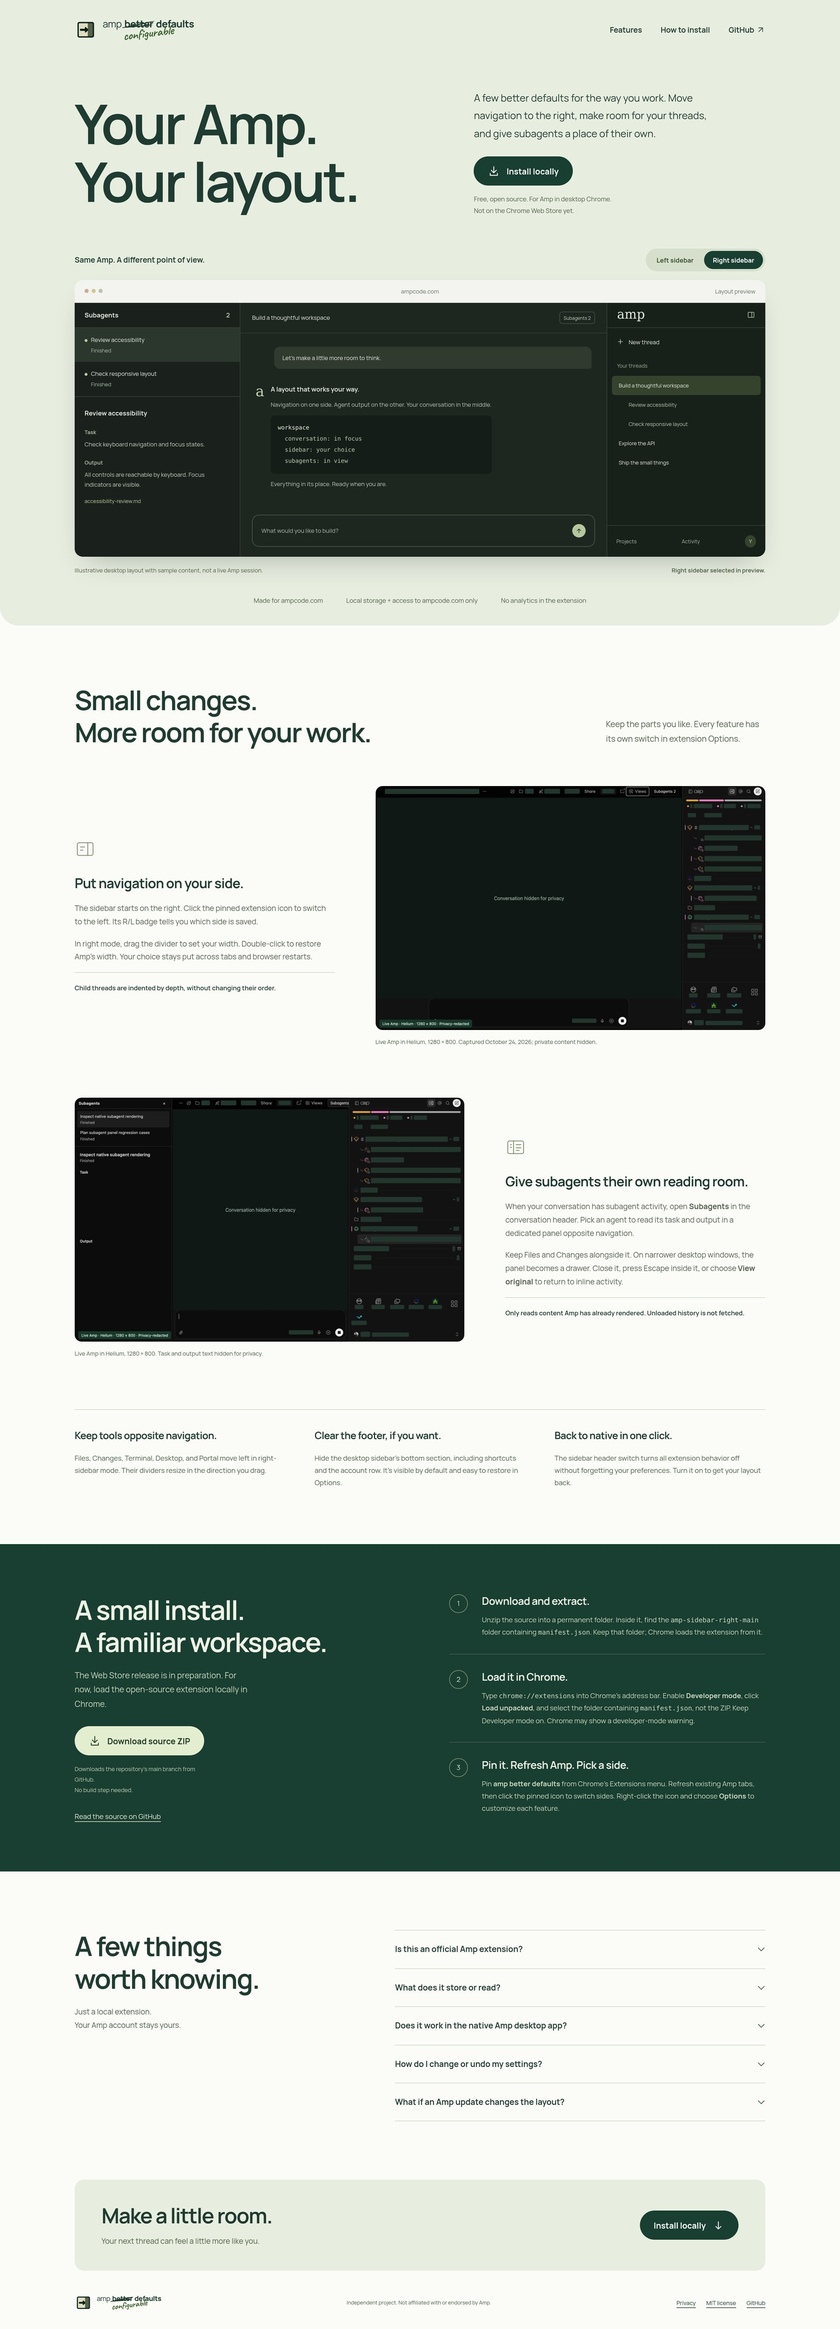
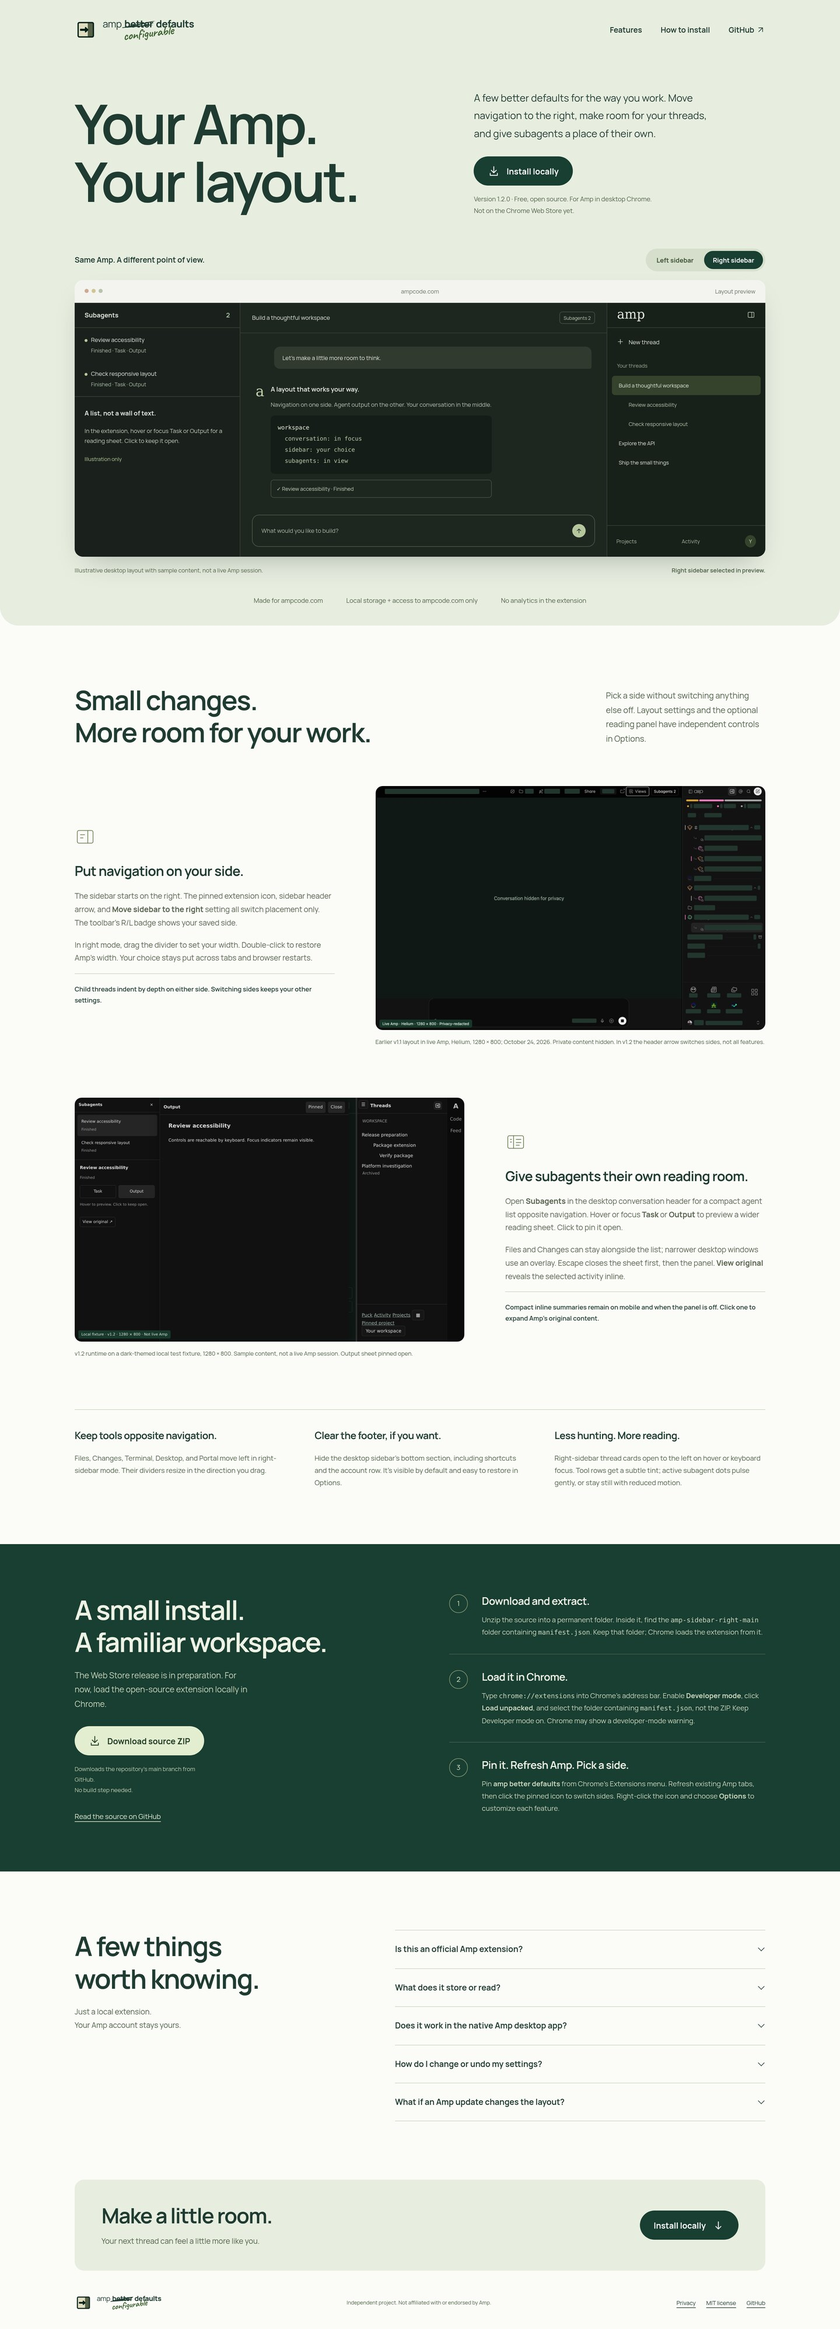
docs: align landing page with v1.2 extension behavior
Update independent settings, inline summaries, reading-sheet guidance, and manual installation updates. Match the reading-sheet fixture to the dark product capture and label its provenance.

Amp-Thread-ID: https://ampcode.com/threads/T-01a16ef6-c2d4-753c-8541-85b43471f9f6

diff --git a/docs/index.html b/docs/index.html
@@ -35,7 +35,7 @@
           <div class="hero-copy">
             <p>A few better defaults for the way you work. Move navigation to the right, make room for your threads, and give subagents a place of their own.</p>
             <a class="button primary" href="#install"><svg viewBox="0 0 24 24" aria-hidden="true"><path d="M12 3v12m-5-5 5 5 5-5M5 16v4h14v-4"/></svg>Install locally</a>
-            <p class="install-note">Free, open source. For Amp in desktop Chrome.<br>Not on the Chrome Web Store yet.</p>
+            <p class="install-note">Version 1.2.0 · Free, open source. For Amp in desktop Chrome.<br>Not on the Chrome Web Store yet.</p>
           </div>
         </div>
         <div class="demo-heading">
@@ -50,13 +50,13 @@
           <div class="workspace-body">
             <aside class="demo-agents" aria-label="Illustrative subagent panel">
               <div class="pane-title">Subagents <span>2</span></div>
-              <div class="agent selected"><span class="status-dot"></span>Review accessibility<small>Finished</small></div>
-              <div class="agent"><span class="status-dot"></span>Check responsive layout<small>Finished</small></div>
-              <div class="agent-result"><strong>Review accessibility</strong><span class="mini-label">Task</span><p>Check keyboard navigation and focus states.</p><span class="mini-label">Output</span><p>All controls are reachable by keyboard. Focus indicators are visible.</p><span class="result-file">accessibility-review.md</span></div>
+              <div class="agent"><span class="status-dot"></span>Review accessibility<small>Finished · Task · Output</small></div>
+              <div class="agent"><span class="status-dot"></span>Check responsive layout<small>Finished · Task · Output</small></div>
+              <div class="agent-guide"><strong>A list, not a wall of text.</strong><p>In the extension, hover or focus Task or Output for a reading sheet. Click to keep it open.</p><span>Illustration only</span></div>
             </aside>
             <div class="demo-conversation">
               <div class="conversation-top">Build a thoughtful workspace <span>Subagents 2</span></div>
-              <div class="conversation-content"><div class="sample-prompt">Let's make a little more room to think.</div><div class="sample-response"><span class="amp-mark" aria-hidden="true">a</span><div><strong>A layout that works your way.</strong><p>Navigation on one side. Agent output on the other. Your conversation in the middle.</p><div class="sample-code"><span>workspace</span><br>&nbsp;&nbsp;conversation: in focus<br>&nbsp;&nbsp;sidebar: your choice<br>&nbsp;&nbsp;subagents: in view</div><p>Everything in its place. Ready when you are.</p></div></div></div>
+              <div class="conversation-content"><div class="sample-prompt">Let's make a little more room to think.</div><div class="sample-response"><span class="amp-mark" aria-hidden="true">a</span><div><strong>A layout that works your way.</strong><p>Navigation on one side. Agent output on the other. Your conversation in the middle.</p><div class="sample-code"><span>workspace</span><br>&nbsp;&nbsp;conversation: in focus<br>&nbsp;&nbsp;sidebar: your choice<br>&nbsp;&nbsp;subagents: in view</div><div class="inline-summary">✓ Review accessibility · Finished</div></div></div></div>
               <div class="demo-composer"><span>What would you like to build?</span><svg viewBox="0 0 24 24" aria-hidden="true"><path d="m7 12 5-5 5 5M12 7v11"/></svg></div>
             </div>
             <aside class="demo-navigation" aria-label="Illustrative navigation sidebar">
@@ -77,19 +77,19 @@
       </section>
   </div>
       <section id="features" class="features wrap" aria-labelledby="features-title">
-        <div class="section-intro"><h2 id="features-title">Small changes.<br>More room for your work.</h2><p>Keep the parts you like. Every feature has its own switch in extension Options.</p></div>
+        <div class="section-intro"><h2 id="features-title">Small changes.<br>More room for your work.</h2><p>Pick a side without switching anything else off. Layout settings and the optional reading panel have independent controls in Options.</p></div>
         <div class="feature-story">
-          <div class="feature-copy"><svg class="feature-icon" viewBox="0 0 40 40" aria-hidden="true"><rect x="5" y="8" width="30" height="24" rx="3"/><path d="M25 8v24M11 16h8m-8 6h5"/></svg><h3>Put navigation on your side.</h3><p>The sidebar starts on the right. Click the pinned extension icon to switch to the left. Its R/L badge tells you which side is saved.</p><p>In right mode, drag the divider to set your width. Double-click to restore Amp's width. Your choice stays put across tabs and browser restarts.</p><div class="feature-detail">Child threads are indented by depth, without changing their order.</div></div>
-          <figure><img src="assets/right-sidebar.png" alt="Privacy-redacted live Amp capture with navigation on the right and child threads indented beneath their parent." width="1280" height="800" loading="lazy"><figcaption>Live Amp in Helium, 1280 × 800. Captured October 24, 2026; private content hidden.</figcaption></figure>
+          <div class="feature-copy"><svg class="feature-icon" viewBox="0 0 40 40" aria-hidden="true"><rect x="5" y="8" width="30" height="24" rx="3"/><path d="M25 8v24M11 16h8m-8 6h5"/></svg><h3>Put navigation on your side.</h3><p>The sidebar starts on the right. The pinned extension icon, sidebar header arrow, and <strong>Move sidebar to the right</strong> setting all switch placement only. The toolbar's R/L badge shows your saved side.</p><p>In right mode, drag the divider to set your width. Double-click to restore Amp's width. Your choice stays put across tabs and browser restarts.</p><div class="feature-detail">Child threads indent by depth on either side. Switching sides keeps your other settings.</div></div>
+          <figure><img src="assets/right-sidebar.png" alt="Privacy-redacted live Amp capture of the earlier 1.1 layout, with navigation on the right and child threads indented beneath their parent." width="1280" height="800" loading="lazy"><figcaption>Earlier v1.1 layout in live Amp, Helium, 1280 × 800; October 24, 2026. Private content hidden. In v1.2 the header arrow switches sides, not all features.</figcaption></figure>
         </div>
         <div class="feature-story reverse">
-          <div class="feature-copy"><svg class="feature-icon" viewBox="0 0 40 40" aria-hidden="true"><rect x="5" y="8" width="30" height="24" rx="3"/><path d="M16 8v24m-6-17h2m-2 5h2m9-5h9m-9 6h9m-9 5h6"/></svg><h3>Give subagents their own reading room.</h3><p>When your conversation has subagent activity, open <strong>Subagents</strong> in the conversation header. Pick an agent to read its task and output in a dedicated panel opposite navigation.</p><p>Keep Files and Changes alongside it. On narrower desktop windows, the panel becomes a drawer. Close it, press Escape inside it, or choose <strong>View original</strong> to return to inline activity.</p><div class="feature-detail">Only reads content Amp has already rendered. Unloaded history is not fetched.</div></div>
-          <figure><img src="assets/right-subagents.png" alt="Privacy-redacted live Amp capture with a selected subagent's task and output panel on the left, conversation in the center, and navigation on the right." width="1280" height="800" loading="lazy"><figcaption>Live Amp in Helium, 1280 × 800. Task and output text hidden for privacy.</figcaption></figure>
+          <div class="feature-copy"><svg class="feature-icon" viewBox="0 0 40 40" aria-hidden="true"><rect x="5" y="8" width="30" height="24" rx="3"/><path d="M16 8v24m-6-17h2m-2 5h2m9-5h9m-9 6h9m-9 5h6"/></svg><h3>Give subagents their own reading room.</h3><p>Open <strong>Subagents</strong> in the desktop conversation header for a compact agent list opposite navigation. Hover or focus <strong>Task</strong> or <strong>Output</strong> to preview a wider reading sheet. Click to pin it open.</p><p>Files and Changes can stay alongside the list; narrower desktop windows use an overlay. Escape closes the sheet first, then the panel. <strong>View original</strong> reveals the selected activity inline.</p><div class="feature-detail">Compact inline summaries remain on mobile and when the panel is off. Click one to expand Amp's original content.</div></div>
+          <figure><img src="assets/subagent-sheets.png" alt="Dark-themed local test fixture of version 1.2 with a compact subagent list, an open Output reading sheet, and right-side navigation." width="1280" height="800" loading="lazy"><figcaption>v1.2 runtime on a dark-themed local test fixture, 1280 × 800. Sample content, not a live Amp session. Output sheet pinned open.</figcaption></figure>
         </div>
         <div class="more-features">
           <article><h3>Keep tools opposite navigation.</h3><p>Files, Changes, Terminal, Desktop, and Portal move left in right-sidebar mode. Their dividers resize in the direction you drag.</p></article>
           <article><h3>Clear the footer, if you want.</h3><p>Hide the desktop sidebar's bottom section, including shortcuts and the account row. It's visible by default and easy to restore in Options.</p></article>
-          <article><h3>Back to native in one click.</h3><p>The sidebar header switch turns all extension behavior off without forgetting your preferences. Turn it on to get your layout back.</p></article>
+          <article><h3>Less hunting. More reading.</h3><p>Right-sidebar thread cards open to the left on hover or keyboard focus. Tool rows get a subtle tint; active subagent dots pulse gently, or stay still with reduced motion.</p></article>
         </div>
       </section>
       <section id="install" class="installation" aria-labelledby="install-title">
@@ -106,10 +106,10 @@
         <div><h2 id="questions-title">A few things<br>worth knowing.</h2><p>Just a local extension.<br>Your Amp account stays yours.</p></div>
         <div class="faq-list">
           <details><summary>Is this an official Amp extension?</summary><p>No. This is an independent, MIT-licensed project. It is not affiliated with or endorsed by Amp. The Amp name identifies the service it works with.</p></details>
-          <details><summary>What does it store or read?</summary><p>The extension needs local storage and access to ampcode.com only. Chrome may describe that access as reading and changing site data. Only nine layout and feature preferences are saved in your local Chrome profile, not synced between devices. The subagent panel expands Amp's native subagent disclosures as needed and reads rendered agent titles, statuses, tasks, results, and errors into memory for the current thread. It does not save or transmit that content. The extension makes no network requests and has no analytics.</p><a href="https://github.com/Tyru5/amp-sidebar-right/blob/main/PRIVACY.md">Read the full privacy policy</a></details>
-          <details><summary>Does it work in the native Amp desktop app?</summary><p>No. Use Amp in desktop Chrome or a Chrome-installed PWA. Chrome extensions cannot modify the separate native Amp app. Below 768px, Amp's mobile layout is unchanged.</p></details>
-          <details><summary>How do I change or undo my settings?</summary><p>Right-click the extension's toolbar icon and choose Options. Each feature has a checkbox. Turn off Enable extension behavior to restore the native layout immediately while keeping your preferences. After disabling or removing the extension in Chrome, refresh open Amp tabs to clear its existing changes.</p></details>
-          <details><summary>What if an Amp update changes the layout?</summary><p>Amp's page structure isn't a public API. A site update may require an extension update. Turn off extension behavior in Options if something looks wrong, and report the issue on GitHub. Local installs need to be updated manually by replacing the source files and clicking Reload in Chrome's extensions page.</p><a href="https://github.com/Tyru5/amp-sidebar-right/issues">Report a compatibility issue</a></details>
+          <details><summary>What does it store or read?</summary><p>The extension needs local storage and access to ampcode.com only. Chrome may describe that access as reading and changing site data. Eight active layout and feature preferences are saved in your local Chrome profile, not synced between devices. Inline summaries and the reading panel use rendered subagent titles, statuses, tasks, results, and errors in memory for the current thread, expanding Amp's native disclosures as needed. That view is discarded on navigation or reload; subagent content is never saved or transmitted. No additional history is fetched. The extension makes no network requests and has no analytics.</p><a href="https://github.com/Tyru5/amp-sidebar-right/blob/main/PRIVACY.md">Read the full privacy policy</a></details>
+          <details><summary>Does it work in the native Amp desktop app?</summary><p>No. Use Amp in desktop Chrome or a Chrome-installed PWA. Chrome extensions cannot modify the separate native Amp app, and Chrome on mobile does not support extensions. Below 768px in a supported browser, navigation stays native and subagents use compact inline summaries rather than the desktop panel.</p></details>
+          <details><summary>How do I change or undo my settings?</summary><p>Right-click the extension's toolbar icon and choose Options. Layout settings and the desktop reading panel have separate checkboxes. Switching sides does not disable other features, and turning off the panel keeps inline summaries. There is no master on/off switch in v1.2. To remove all extension changes, disable or remove the extension in Chrome, then refresh open Amp tabs.</p></details>
+          <details><summary>What if an Amp update changes the layout?</summary><p>Amp's page structure isn't a public API. A site update may require an extension update. Disable the extension in Chrome and refresh Amp if something looks wrong, and report the issue on GitHub. Local installs do not auto-update: download and extract the new source ZIP, replacing the files in the existing folder Chrome loads. For a cloned install, run <code>git pull</code> in that folder instead. Click <strong>Reload</strong> in Chrome's extensions page, re-enable the extension if you disabled it, and refresh Amp. Keep the installed folder in place; deleting or moving it breaks the install.</p><a href="https://github.com/Tyru5/amp-sidebar-right/issues">Report a compatibility issue</a></details>
         </div>
       </section>
       <section class="closing wrap" aria-labelledby="closing-title"><div><h2 id="closing-title">Make a little room.</h2><p>Your next thread can feel a little more like you.</p></div><a class="button primary" href="#install">Install locally<svg viewBox="0 0 24 24" aria-hidden="true"><path d="M12 5v14m-5-5 5 5 5-5"/></svg></a></section>

diff --git a/docs/landing.css b/docs/landing.css
@@ -59,14 +59,12 @@ h1 { font-size: clamp(60px, 6.8vw, 94px); line-height: 1.06; letter-spacing: -.0
 .pane-title { height: 43px; display: flex; justify-content: space-between; align-items: center; gap: 10px; padding-inline: 17px; border-bottom: 1px solid #384136; font-size: 11px; font-weight: 700; }
 .pane-title > span:not(.demo-wordmark) { color: #a9bca2; }
 .agent { padding: 13px 12px 13px 17px; font-size: 10px; line-height: 1.5; }
-.agent.selected { background: #2b362c; }
 .status-dot { display: inline-block; width: 5px; height: 5px; border-radius: 50%; background: #b8c89a; margin-right: 6px; }
 .agent small { display: block; font-size: 9px; color: #afbdab; padding: 4px 0 0 11px; }
-.agent-result { border-top: 1px solid #384136; padding: 18px 17px; line-height: 1.8; }
-.agent-result strong { font-size: 11px; }
-.mini-label { display: block; margin: 15px 0 4px; font-size: 9px; font-weight: 700; color: #a3b39b; }
-.agent-result p { color: #c2cbbd; font-size: 10px; line-height: 1.7; margin-bottom: 0; }
-.result-file { color: #b9c99c; font-size: 9px; display: block; margin-top: 12px; }
+.agent-guide { border-top: 1px solid #384136; padding: 18px 17px; line-height: 1.8; }
+.agent-guide strong { font-size: 11px; }
+.agent-guide p { color: #c2cbbd; font-size: 10px; line-height: 1.7; margin: 12px 0; }
+.agent-guide > span { color: #b9c99c; font-size: 9px; }
 .demo-conversation { order: 1; min-width: 0; display: flex; flex-direction: column; background: #1e2620; }
 .conversation-top { padding: 15px 20px; border-bottom: 1px solid #354031; font-size: 10px; display: flex; align-items: center; justify-content: space-between; gap: 10px; white-space: nowrap; }
 .conversation-top span { font-size: 8px; color: #c2d0b7; border: 1px solid #46503e; border-radius: 5px; padding: 4px 6px; }
@@ -78,6 +76,7 @@ h1 { font-size: clamp(60px, 6.8vw, 94px); line-height: 1.06; letter-spacing: -.0
 .amp-mark { font-family: Georgia, serif; font-style: italic; font-size: 25px; color: #c2cfaa; line-height: 1; }
 .sample-code { font: 10px/1.9 ui-monospace, monospace; padding: 12px; background: #151d18; border-radius: 7px; color: #b5c5a7; }
 .sample-code span { color: #e3e9d6; }
+.inline-summary { margin-top: 10px; padding: 7px 9px; border: 1px solid #46503e; border-radius: 5px; color: #c2d0b7; font-size: 9px; }
 .demo-composer { margin: auto 20px 17px; border: 1px solid #4d5845; border-radius: 12px; padding: 15px; display: flex; justify-content: space-between; color: #acbba3; font-size: 10px; align-items: center; }
 .demo-composer svg { width: 23px; height: 23px; background: #b5c69f; color: #23351f; border-radius: 50%; padding: 4px; }
 .demo-navigation { order: 2; border-left: 1px solid #384136; background: #18201a; display: flex; flex-direction: column; min-width: 0; }
@@ -93,7 +92,6 @@ h1 { font-size: clamp(60px, 6.8vw, 94px); line-height: 1.06; letter-spacing: -.0
 .profile-dot { border-radius: 50%; background: #34442c; color: #d0dfbe; padding: 4px 7px; }
 .workspace[data-side="left"] .demo-navigation { order: 0; border-left: 0; border-right: 1px solid #384136; }
 .workspace[data-side="left"] .demo-agents { order: 2; border-right: 0; border-left: 1px solid #384136; }
-.workspace[data-side="left"] .demo-thread.child { margin-left: 8px; }
 .demo-caption { display: flex; justify-content: space-between; gap: 16px; color: var(--muted); font-size: 10px; padding-block: 15px 0; line-height: 1.6; }
 #demo-status { font-weight: 650; text-align: right; }
 .opening-footer { display: flex; justify-content: center; gap: 40px; font-size: 11px; color: var(--muted); padding-block: 36px; }
@@ -161,7 +159,7 @@ details a { font-size: 12px; }
   .conversation-content { padding: 20px 16px; }
   .sample-response { margin-top: 18px; }
   .sample-code { font-size: 9px; }
-  .agent-result { padding: 14px 12px; }
+  .agent-guide { padding: 14px 12px; }
   .site-footer { flex-wrap: wrap; }
 }
 @media (max-width: 700px) {
@@ -188,6 +186,7 @@ details a { font-size: 12px; }
   .sample-response p { font-size: 8px; }
   .sample-response p:last-child { display: none; }
   .sample-code { padding: 8px 6px; font-size: 7px; }
+  .inline-summary { font-size: 7px; padding: 5px; margin-top: 7px; }
   .amp-mark { font-size: 20px; }
   .demo-composer { padding: 9px; margin: auto 10px 12px; font-size: 7px; border-radius: 8px; }
   .demo-composer svg { width: 17px; height: 17px; }
@@ -196,8 +195,7 @@ details a { font-size: 12px; }
   .new-thread { padding: 13px 9px; gap: 5px; font-size: 8px; }
   .thread-label { margin: 6px 10px; font-size: 7px; }
   .demo-thread { font-size: 7px; margin-inline: 4px; padding: 8px 6px; }
-  .demo-thread.child { margin-left: 12px; }
-  .workspace[data-side="left"] .demo-thread.child { margin-left: 4px; }
+  .demo-thread.child { margin-left: 4px; }
   .demo-footer { padding: 10px 8px; font-size: 7px; }
   .profile-dot { display: none; }
   .browser-bar { padding: 10px 12px; font-size: 8px; }

diff --git a/docs/assets/README.md b/docs/assets/README.md
@@ -1,11 +1,25 @@
 # Landing page assets
 
 - `icon.png` is copied unchanged from `icons/icon-128.png`.
-- `right-sidebar.png` and `right-subagents.png` are copied unchanged from
-  `store/screenshots/`. They are live, signed-in Helium captures from October
-  24, 2026 at 1280 × 800, with private conversation and task/output text masked
-  before capture. See `store/screenshots/README.md` for provenance and scope.
-  They demonstrate layout, not complete end-to-end coverage of all Amp tools.
+- `right-sidebar.png` is copied unchanged from `store/screenshots/`. It is an
+  earlier v1.1 live, signed-in Helium capture from October 24, 2026 at
+  1280 × 800, with private content masked before capture. Its caption notes
+  that v1.2 changes the header arrow to switch placement instead of all features.
+  See `store/screenshots/README.md` for provenance and scope.
+- `subagent-sheets.png` shows the v1.2 runtime on `tests/fixture.html`, not live
+  Amp. At a 1280 × 800 viewport, clear fixture localStorage, reload, and add
+  two finished agents with `fixtureAgents.add(id, title, task, 'finished', output)`.
+  Open Subagents, focus Output, and press Enter to pin the sheet, then blur focus.
+  Capture-only CSS matches the dark palette of the live image above it: background
+  `#111111`, foreground `#dedede`, muted foreground `#999999`, accent `#252525`,
+  input borders `#303030`, and conversation background `#0f1815`. Apply these
+  variables to the runtime and corresponding colors to the fixture shell,
+  buttons, links, and dividers. Hide the fixture's test-controls bar and use a
+  full-height shell; replace the bar with the bottom-left green fixture label.
+  These presentation overrides do not alter the extension's styles or behavior.
+  Scroll to the top, capture at 2×, then resize to 1280 × 800 with ImageMagick.
+  The capture itself and the landing caption explicitly label the dark-themed
+  fixture and synthetic sample content, not a live Amp session.
 - `manrope.ttf` is the variable Manrope font from Google Fonts:
   <https://github.com/google/fonts/blob/main/ofl/manrope/Manrope%5Bwght%5D.ttf>.
   Its SIL Open Font License is included in `manrope-OFL.txt`. It is served
